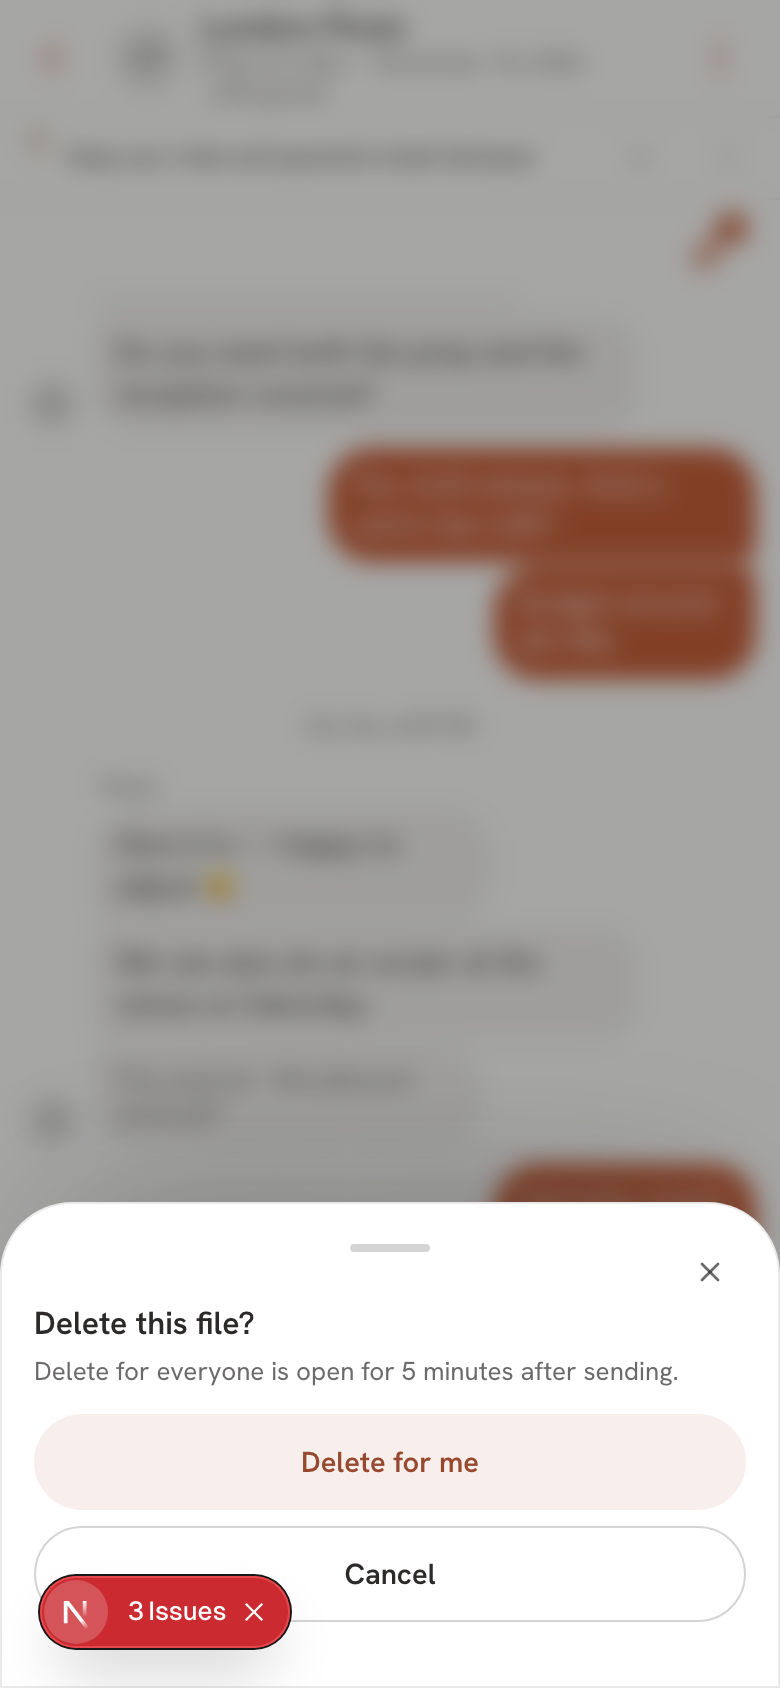
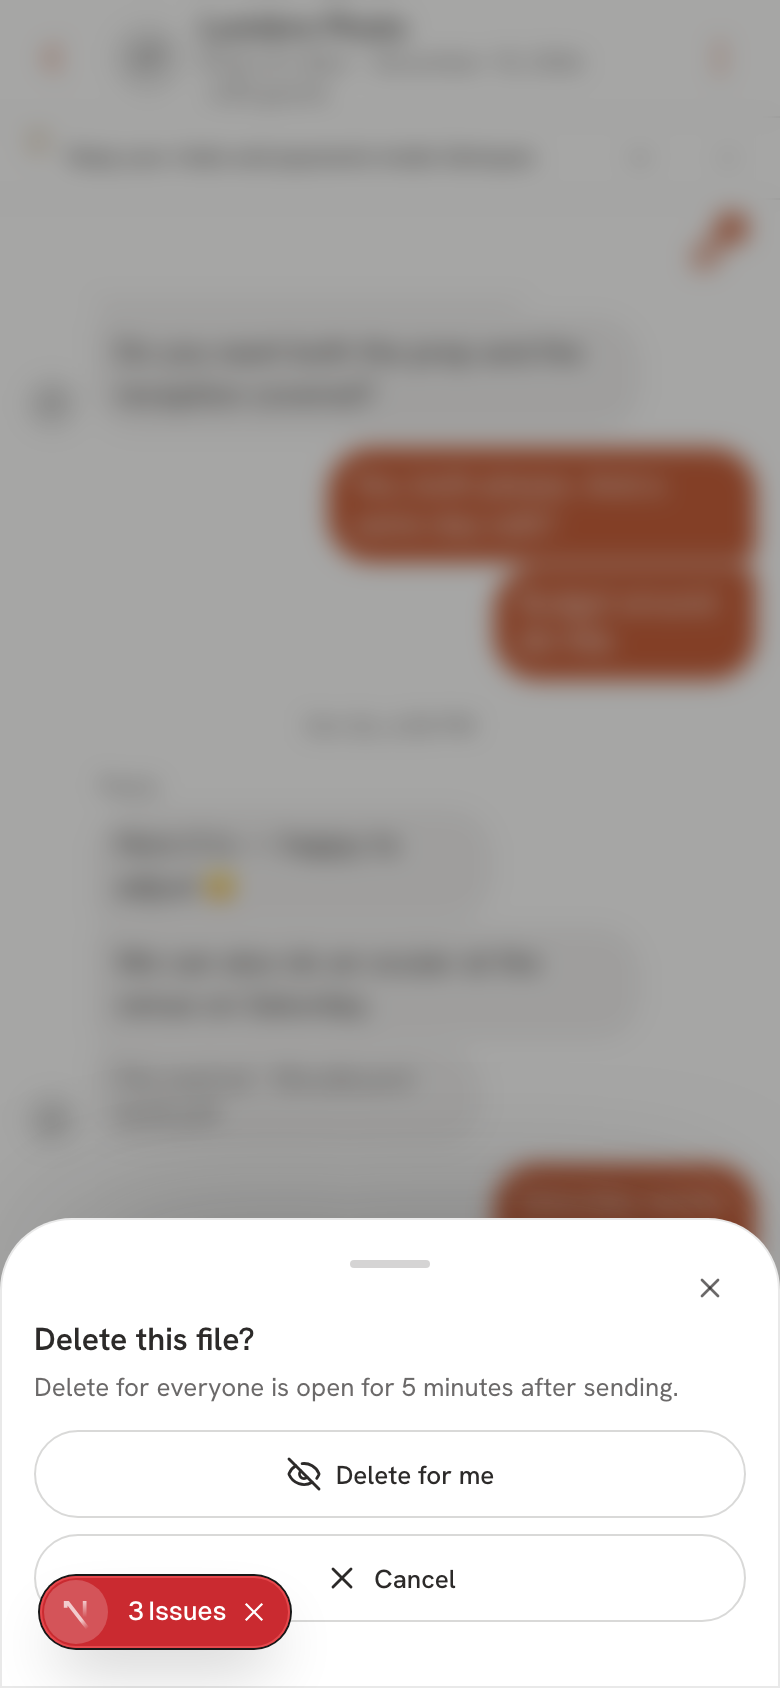
fix(chat): the undo ring is a soft removal — the other side hears it on the thread's own UPDATE
Controller: no unfiltered DELETE feed. remove_my_chat_file never deletes a row:
undo and everyone clear the attachment columns and set the new
chat_messages.file_removed_at, so the stream's thread-filtered, RLS-checked
UPDATE listener carries it. A marked row with no words and no for-everyone
line draws nothing (the approved no-line undo). undo-3 retaken.

diff --git a/apps/web/tests/db/you-may-remove-your-own-file-from-a-chat.db.test.ts b/apps/web/tests/db/you-may-remove-your-own-file-from-a-chat.db.test.ts
@@ -4,7 +4,8 @@
  * `public.remove_my_chat_file(message_id, mode)` · `public.chat_file_removal_options(message_id)` ·
  * `public.chat_file_removals`.
  *
- *   1. undo inside 10 s, no words → the row is gone for both, its hearts with it, no line; the stored ref comes back;
+ *   1. undo inside 10 s → a SOFT removal: the row stays (hearts too), its file is cleared and `file_removed_at` set, so
+ *      the other side reads the change (a thread-filtered realtime UPDATE, RLS applied); no line; the ref comes back;
  *   2. undo after the window → WINDOW_CLOSED, the file stays;
  *   3. words stay — undo and Delete for everyone clear only the attachment columns;
  *   4. Delete for everyone inside 5 min → the file goes, a for-everyone line both sides can read; after → refused;
@@ -114,8 +115,8 @@ async function options(asUid: string, messageId: string) {
   }
 }
 async function row(messageId: string) {
-  const r = await db.query<{ body: string; attachment_r2_key: string | null; attachment_name: string | null }>(
-    `SELECT body, attachment_r2_key, attachment_name FROM public.chat_messages WHERE message_id = $1`,
+  const r = await db.query<{ body: string; attachment_r2_key: string | null; attachment_name: string | null; file_removed_at: string | null }>(
+    `SELECT body, attachment_r2_key, attachment_name, file_removed_at FROM public.chat_messages WHERE message_id = $1`,
     [messageId],
   );
   return r.rows[0] ?? null;
@@ -133,11 +134,11 @@ async function removalsSeenBy(asUid: string, messageId: string) {
     await reset();
   }
 }
-async function readableBy(asUid: string, messageId: string): Promise<{ attachment_r2_key: string | null } | null> {
+async function readableBy(asUid: string, messageId: string): Promise<{ attachment_r2_key: string | null; file_removed_at: string | null } | null> {
   await asUser(asUid);
   try {
-    const r = await db.query<{ attachment_r2_key: string | null }>(
-      `SELECT attachment_r2_key FROM public.chat_messages WHERE message_id = $1`,
+    const r = await db.query<{ attachment_r2_key: string | null; file_removed_at: string | null }>(
+      `SELECT attachment_r2_key, file_removed_at FROM public.chat_messages WHERE message_id = $1`,
       [messageId],
     );
     return r.rows[0] ?? null;
@@ -207,19 +208,27 @@ beforeEach(reset);
 
 // ── the 10-second undo ──────────────────────────────────────────────────────
 
-test('1 · undo inside 10 s, nothing said with it — the row and its hearts are gone for both, no line', async () => {
+test('1 · undo inside 10 s — a soft removal: the row stays, the file is cleared and marked, the other side reads it, no line', async () => {
   const mine = await send(F.couple, ' ', { file: true, agoSeconds: 3 });
   await asUser(F.vendorUser);
   await db.query(`INSERT INTO public.chat_message_hearts (message_id) VALUES ($1)`, [mine]);
   await reset();
   const r = await remove(F.couple, mine, 'undo');
   assert.ok(r.ok, r.ok ? '' : r.message);
-  assert.equal(r.row.outcome, 'deleted');
+  assert.equal(r.row.outcome, 'file_removed');
   assert.equal(r.row.thread_id, F.threadId);
   assert.equal(r.row.stored_ref, `r2://setnayan-thread-files/chat/${F.threadId}/${mine}.jpg`);
-  assert.equal(await row(mine), null, 'the file message is still there');
+  const after = await row(mine);
+  assert.ok(after, 'undo hard-deleted the row — the other side would never hear of it');
+  assert.equal(after.attachment_r2_key, null);
+  assert.equal(after.attachment_name, null);
+  assert.ok(after.file_removed_at, 'no removed marker');
+  // The other side reads the cleared, marked row through its own RLS — what its realtime UPDATE carries.
+  const seen = await readableBy(F.vendorUser, mine);
+  assert.equal(seen?.attachment_r2_key, null);
+  assert.ok(seen?.file_removed_at, 'the other side cannot read the marker');
   const h = await db.query(`SELECT 1 FROM public.chat_message_hearts WHERE message_id = $1`, [mine]);
-  assert.equal(h.rows.length, 0, 'its hearts outlived it');
+  assert.equal(h.rows.length, 1, 'a soft removal took the hearts');
   const lines = await db.query(`SELECT 1 FROM public.chat_file_removals WHERE message_id = $1`, [mine]);
   assert.equal(lines.rows.length, 0, 'undo left a line');
 });
@@ -239,6 +248,7 @@ test('3 · words stay — undo with words clears only the file, and leaves no li
   assert.equal(r.row.outcome, 'file_removed');
   const after = await row(mine);
   assert.equal(after?.body, 'Here is the floor plan', 'the words went with the file');
+  assert.ok(after?.file_removed_at);
   assert.equal(after?.attachment_r2_key, null);
   assert.equal(after?.attachment_name, null);
 });
@@ -254,6 +264,7 @@ test('4 · Delete for everyone inside 5 min — the file goes, the words stay, b
   const after = await row(mine);
   assert.equal(after?.body, 'The moodboard');
   assert.equal(after?.attachment_r2_key, null);
+  assert.ok(after?.file_removed_at);
   assert.deepEqual(await removalsSeenBy(F.vendorUser, mine), [{ user_id: F.couple, for_everyone: true }]);
   assert.deepEqual(await removalsSeenBy(F.couple, mine), [{ user_id: F.couple, for_everyone: true }]);
   assert.deepEqual(await removalsSeenBy(F.outsider, mine), [], 'an outsider reads the line');
@@ -350,7 +361,8 @@ test('6c · the couple’s own purchase on the event is NOT a booking with this 
   assert.equal((await options(F.couple, mine)).is_booking, false);
   const r = await remove(F.couple, mine, 'undo');
   assert.ok(r.ok, r.ok ? '' : r.message);
-  assert.equal(r.row.outcome, 'deleted');
+  assert.equal(r.row.outcome, 'file_removed');
+  assert.ok((await row(mine))?.file_removed_at);
 });
 
 // ── who may ─────────────────────────────────────────────────────────────────
@@ -369,7 +381,7 @@ test('7b · the supplier removes their own file too', async () => {
   const theirs = await send(F.vendorUser, ' ', { file: true, agoSeconds: 4 });
   const r = await remove(F.vendorUser, theirs, 'undo');
   assert.ok(r.ok, r.ok ? '' : r.message);
-  assert.equal(await row(theirs), null);
+  assert.equal((await row(theirs))?.attachment_r2_key, null);
 });
 
 test('7c · words are never removed this way', async () => {
@@ -387,6 +399,22 @@ test('7d · an outsider is answered as "not yours" — neither function confirms
   assert.match(r.ok ? '' : r.message, /NOT_YOURS/);
   await assert.rejects(() => options(F.outsider, mine), /NOT_YOURS/);
   assert.ok(await row(mine));
+});
+
+test('7e · nobody sets the marker by hand — a member cannot UPDATE chat_messages', async () => {
+  const mine = await send(F.couple, ' ', { file: true });
+  await asUser(F.couple);
+  await db.query(`UPDATE public.chat_messages SET file_removed_at = NOW(), attachment_r2_key = NULL WHERE message_id = $1`, [mine]).catch(() => undefined);
+  await reset();
+  const after = await row(mine);
+  assert.ok(after?.attachment_r2_key, 'a member cleared a file past the writer');
+  assert.equal(after?.file_removed_at, null);
+});
+
+test('7f · no mode ever deletes a row', async () => {
+  const src = await db.query<{ src: string }>(`SELECT prosrc AS src FROM pg_proc WHERE proname = 'remove_my_chat_file'`);
+  assert.equal(src.rows.length, 1);
+  assert.doesNotMatch(src.rows[0]!.src, /DELETE\s+FROM/i);
 });
 
 test('8 · still no DELETE policy — a plain DELETE removes nothing, even your own file', async () => {

diff --git a/apps/web/app/_components/chat-message-stream.tsx b/apps/web/app/_components/chat-message-stream.tsx
@@ -133,7 +133,6 @@ import {
   CHAT_FILE_REMOVED_UNKNOWN,
   fileLeftMessage,
   removedForEveryoneLine,
-  withoutDeletedMessage,
 } from '@/lib/chat-file-removal';
 import { loadOpenFilings, type Filing, type OpenDecisionTopic } from '@/lib/chat-decisions';
 import { ChatPinnedStack } from './chat/chat-pinned-stack';
@@ -635,7 +634,7 @@ export function ChatMessageStream({
             async remove(_id, mode) {
               await new Promise((r) => setTimeout(r, 400));
               if (labFileRemove.booking && mode !== 'me') return { ok: false, reason: 'booking' };
-              return { ok: true, outcome: mode === 'me' ? 'hidden_for_me' : mode === 'everyone' ? 'removed_for_everyone' : 'deleted', removedAt: new Date().toISOString() };
+              return { ok: true, outcome: mode === 'me' ? 'hidden_for_me' : mode === 'everyone' ? 'removed_for_everyone' : 'file_removed', removedAt: new Date().toISOString() };
             },
           }
         : routeRemoveIO,
@@ -650,8 +649,8 @@ export function ChatMessageStream({
         attachment_name: null,
         attachment_mime: null,
         attachment_size_bytes: null,
+        file_removed_at: done.removedAt,
       });
-      if (done.outcome === 'deleted') setMessages((prev) => prev.filter((m) => m.message_id !== messageId));
       if (done.outcome === 'file_removed' || done.outcome === 'removed_for_everyone')
         setMessages((prev) => prev.map((m) => (m.message_id === messageId ? strip(m) : m)));
       if (done.outcome === 'removed_for_everyone' || done.outcome === 'hidden_for_me')
@@ -1335,21 +1334,14 @@ export function ChatMessageStream({
               return;
             }
             const row = payload.new as ChatMessageRow;
-            // 👈 A file just left a message (its sender removed it, for everyone or by undo with words): the bubble loses
-            // it with this row, and the line saying who comes from a re-read of the removals.
+            // 👈 A file just left a message (its sender removed it — the undo ring and Delete for everyone are both a SOFT
+            // removal, so it arrives here, filtered to this thread and checked by RLS): the bubble loses it with this row,
+            // and the line saying who comes from a re-read of the removals.
             if (fileLeftMessage(messagesRef.current.find((m) => m.message_id === row.message_id), row)) void refetchRemovals();
             setMessages((prev) =>
               prev.map((m) => (m.message_id === row.message_id ? row : m)),
             );
           },
-        )
-        // 👈 THE RING'S UNDO, LIVE ON THE OTHER SIDE (2026-11-13 "deleted at once for both"): a file sent with no words is
-        // deleted outright. Postgres Changes cannot filter a DELETE and sends only the primary key, so this listens
-        // unfiltered and drops the id only if it is one of THIS stream's messages (`withoutDeletedMessage`).
-        .on(
-          'postgres_changes',
-          { event: 'DELETE', schema: 'public', table: 'chat_messages' },
-          (payload) => setMessages((prev) => withoutDeletedMessage(prev, payload.old as { message_id?: unknown })),
         )
         // ♥ THE SECOND .on() — hearts on this thread, on the SAME channel (THE ONE BUILD; no new connection).
         .on(
@@ -2361,6 +2353,9 @@ export function ChatMessageStream({
           const hasWords = (m.body ?? '').trim() !== '';
           const hasFile = !hiddenForMe && !!(m.attachment_r2_key || m.attachment_url);
           const ownFile = mine && privateWith === null && hasFile;
+          // The ring's undo (marked, no for-everyone line): nothing is drawn — the approved "no line". With words, the
+          // words stay as an ordinary bubble.
+          if (!hasWords && m.file_removed_at && !removedLine) return null;
           if (!hasWords && (removedLine || (!m.attachment_r2_key && !m.attachment_url && !m.attachment_name))) {
             return (
               <li key={m.message_id} className="flex justify-center py-1">

diff --git a/apps/web/app/_components/chat/your-own-file-swipes-away.test.ts b/apps/web/app/_components/chat/your-own-file-swipes-away.test.ts
@@ -15,7 +15,6 @@ import {
   everyoneMinutesLeft,
   fileLeftMessage,
   refusalFromError,
-  withoutDeletedMessage,
   removedForEveryoneLine,
   undoSecondsLeft,
 } from '@/lib/chat-file-removal';
@@ -124,26 +123,21 @@ test('the route lets the DATABASE decide, then drops only an object under the ca
   assert.match(get, /supabase\.rpc\('chat_file_removal_options', \{ p_message_id: messageId \}\)/);
 });
 
-test('the OTHER side sees it go live — a DELETE drops only this chat’s message, an UPDATE that clears the file re-reads the line', () => {
-  const msgs = [{ message_id: 'a' }, { message_id: 'b' }];
-  assert.deepEqual(withoutDeletedMessage(msgs, { message_id: 'a' }), [{ message_id: 'b' }]);
-  assert.equal(withoutDeletedMessage(msgs, { message_id: 'from-another-chat' }), msgs, 'another chat’s delete re-rendered this one');
-  assert.equal(withoutDeletedMessage(msgs, null), msgs);
+test('the OTHER side sees it go live — on THIS thread’s filtered UPDATE, never an unfiltered DELETE feed', () => {
   const withFile = { message_id: 'a', attachment_r2_key: 'r2://x' };
   assert.equal(fileLeftMessage(withFile, { message_id: 'a', attachment_r2_key: null }), true);
   assert.equal(fileLeftMessage({ message_id: 'a' }, { message_id: 'a' }), false, 'a words-only update is not a removal');
   assert.equal(fileLeftMessage(undefined, { message_id: 'a' }), false);
 
   const s = read('app/_components/chat-message-stream.tsx');
-  assert.match(
-    s,
-    /\{ event: 'DELETE', schema: 'public', table: 'chat_messages' \},\s*\(payload\) => setMessages\(\(prev\) => withoutDeletedMessage\(prev, payload\.old/,
-    'the stream stopped dropping a message its sender undid',
-  );
-  const update = s.slice(s.indexOf("event: 'UPDATE',"), s.indexOf("event: 'DELETE'"));
-  assert.match(update, /table: 'chat_messages'/);
+  // No DELETE subscription on chat_messages at all: it would send every client other chats' ids (controller, 13 Nov).
+  assert.doesNotMatch(s, /event: 'DELETE'[^}]*table: 'chat_messages'/);
+  const update = s.slice(s.indexOf("event: 'UPDATE',"), s.indexOf('// ♥ THE SECOND .on()'));
+  assert.match(update, /table: 'chat_messages',\s*filter: `thread_id=eq\.\$\{threadId\}`/, 'the UPDATE listener is no longer per thread');
   assert.match(update, /fileLeftMessage\(messagesRef\.current\.find\(.*\), row\)\) void refetchRemovals\(\)/);
   assert.match(update, /prev\.map\(\(m\) => \(m\.message_id === row\.message_id \? row : m\)\)/, 'the cleared row stopped replacing the bubble');
+  // The ring's undo is marked and drawn as nothing (the approved "no line"); a for-everyone line still draws.
+  assert.match(s, /if \(!hasWords && m\.file_removed_at && !removedLine\) return null;/);
 });
 
 test('Delete for everyone is the house DANGER pill; Delete for me and Cancel are neutral (T19)', () => {

diff --git a/apps/web/lib/chat-file-removal.ts b/apps/web/lib/chat-file-removal.ts
@@ -23,7 +23,7 @@ export const CHAT_FILE_REMOVED_FOR_ME = 'You removed a file for yourself';
 export const CHAT_FILE_REMOVED_UNKNOWN = 'A file was removed';
 
 export type ChatFileRemoveMode = 'undo' | 'everyone' | 'me';
-export type ChatFileRemoveOutcome = 'deleted' | 'file_removed' | 'removed_for_everyone' | 'hidden_for_me';
+export type ChatFileRemoveOutcome = 'file_removed' | 'removed_for_everyone' | 'hidden_for_me';
 export type ChatFileRemoveRefusal = 'booking' | 'window' | 'refused';
 
 /** Seconds the ring still has, whole, 0 when it has ended. The phone's clock — the server re-decides. */
@@ -57,18 +57,11 @@ export function refusalFromError(message: string | null | undefined): ChatFileRe
 
 type FileCols = { message_id: string; attachment_r2_key?: string | null; attachment_url?: string | null };
 
-/** An UPDATE where the file left the message (its sender removed it): re-read the removal lines. */
+/**
+ * An UPDATE where the file left the message (its sender removed it — the undo ring and Delete for everyone are both a
+ * soft removal, so the other side hears it on the thread-filtered, RLS-checked UPDATE): re-read the removal lines.
+ */
 export function fileLeftMessage(before: FileCols | undefined, after: FileCols): boolean {
   return !!before && !!(before.attachment_r2_key || before.attachment_url) && !after.attachment_r2_key && !after.attachment_url;
 }
 
-/**
- * A realtime DELETE (the ring's undo of a file sent with no words). Postgres Changes cannot filter a DELETE by thread
- * and sends only the primary key, so the stream drops the id ONLY if it is one of its own messages — an id from another
- * chat changes nothing (and the same array comes back, so nothing re-renders).
- */
-export function withoutDeletedMessage<T extends { message_id: string }>(prev: T[], old: { message_id?: unknown } | null | undefined): T[] {
-  const id = typeof old?.message_id === 'string' ? old.message_id : null;
-  if (!id || !prev.some((m) => m.message_id === id)) return prev;
-  return prev.filter((m) => m.message_id !== id);
-}

diff --git a/apps/web/lib/chat.ts b/apps/web/lib/chat.ts
@@ -214,6 +214,12 @@ export type ChatMessageRow = {
   attachment_mime?: string | null;
   attachment_size_bytes?: number | null;
   /**
+   * 👈 When the sender removed this message's file (the undo ring or Delete for everyone — 2026-11-13, migration
+   * 20271341904583). The attachment columns are already cleared; the words stay. Optional so a read before the
+   * migration degrades to "never removed".
+   */
+  file_removed_at?: string | null;
+  /**
    * 🔒 Set on a PRIVATE message (DECISION_LOG 2026-11-09 🔒): the one person, besides its sender, who can read it — RLS
    * on `chat_messages` returns it to nobody else. NULL = everyone in the thread. The column name lives in ONE place,
    * `CHAT_PRIVATE_RECIPIENT_COLUMN` (lib/chat-private.ts).
@@ -685,7 +691,7 @@ export async function fetchMessages(
   const withSeveral = await supabase
     .from('chat_messages')
     .select(
-      `${MESSAGE_SELECT},is_bot,appointment_id,change_order_id,amendment_id,offered_service_id,${CHAT_PRIVATE_RECIPIENT_COLUMN},${CHAT_PRIVATE_RECIPIENTS_COLUMN}`,
+      `${MESSAGE_SELECT},is_bot,appointment_id,change_order_id,amendment_id,offered_service_id,${CHAT_PRIVATE_RECIPIENT_COLUMN},${CHAT_PRIVATE_RECIPIENTS_COLUMN},file_removed_at`,
     )
     .eq('thread_id', threadId)
     .order('created_at', { ascending: true });
@@ -725,7 +731,7 @@ export async function fetchMessages(
 export async function fetchMessagesMasked(supabase: SupabaseClient, threadId: string): Promise<ChatMessageRow[]> {
   const { data, error } = await supabase
     .rpc('chat_thread_messages_read', { p_thread_id: threadId })
-    .select(`${MESSAGE_SELECT},is_bot,appointment_id,change_order_id,amendment_id,offered_service_id`);
+    .select(`${MESSAGE_SELECT},is_bot,appointment_id,change_order_id,amendment_id,offered_service_id,file_removed_at`);
   if (error) throw new Error(`fetchMessagesMasked failed: ${error.message}`);
   return (data ?? []) as ChatMessageRow[];
 }

diff --git a/changelog.d/chat-file-undo-ring.md b/changelog.d/chat-file-undo-ring.md
@@ -4,7 +4,7 @@ Builds the approved prototype `chat_file_undo_ring_2026-11-13` v3 (DECISION_LOG 
 AT ONCE ON SEND…" + "CHAT FILE UNDO DRAWING APPROVED"), replacing the PR's earlier swipe + Undo-toast hard delete.
 
 - **Undo ring** (`chat/chat-file-swipe.tsx`): the moment you send a file, a 44px ↺ ring sits left of your bubble, its arc
-  emptying over 10 s with the seconds under it (motion-safe only). Tap = deleted at once for both, no line. Reads the
+  emptying over 10 s with the seconds under it (motion-safe only). Tap = removed at once for both (a soft removal), no line. Reads the
   message's own time, so coming back shows the time left or nothing.
 - **Swipe** opens "Delete this file?": Delete for everyone (red, first 5 min, "· N min left", from the server's clock) ·
   Delete for me · Cancel; after 5 min only Delete for me with the line why. Booking files: "This file is part of the
@@ -14,13 +14,15 @@ AT ONCE ON SEND…" + "CHAT FILE UNDO DRAWING APPROVED"), replacing the PR's ear
   enforces undo ≤10 s (+5 s grace), everyone ≤5 min (+30 s grace) on the row's created_at, refuses booking files
   (`chat_message_is_booking_file`: decision cards/filings, "This booking" filings, payment proofs, contracts, or a
   booking between THIS couple and THIS chat's shop — an order naming the shop, the shop confirmed on the event, or a
-  dispute between them; the couple's own purchase alone is not one) for undo and everyone, and keeps the words (only the attachment columns clear). New
+  dispute between them; the couple's own purchase alone is not one) for undo and everyone, and keeps the words (only the attachment columns clear; never a hard delete). New
   `chat_file_removals` (RLS at create; own rows + for-everyone rows to whoever reads the message) carries "… removed a
   file · time" and the per-viewer hide. `chat_file_removal_options` feeds the sheet. Route
   `DELETE /api/chat/attachment/[id]?mode=…` · `GET …?removal=options`. Exposure baseline regenerated.
-- **Live on the other side**: the stream drops a message whose row is deleted (an unfiltered DELETE listener matched
-  against its own ids — Postgres Changes cannot filter a DELETE) and re-reads the removal line when an UPDATE clears a
-  file. Delete for everyone is the house DANGER pill (`ActionButton tone="danger"`); Delete for me and Cancel neutral.
+- **Live on the other side**: undo and Delete for everyone are both a SOFT removal — the row is kept, its attachment
+  columns cleared and the new `chat_messages.file_removed_at` set — so the other side hears it on the stream's existing
+  thread-filtered, RLS-checked realtime UPDATE (no DELETE feed, no hard delete). A marked row with no words and no
+  for-everyone line draws nothing (the approved "no line"). Delete for everyone is the house DANGER pill
+  (`ActionButton tone="danger"`); Delete for me and Cancel neutral.
 - Lab: `/dev/chat-lab/t/<id>?file=ring|sheet|late|booking`.
 
 SPEC IMPACT: None — the corpus already carries the 2026-11-13 rows.
